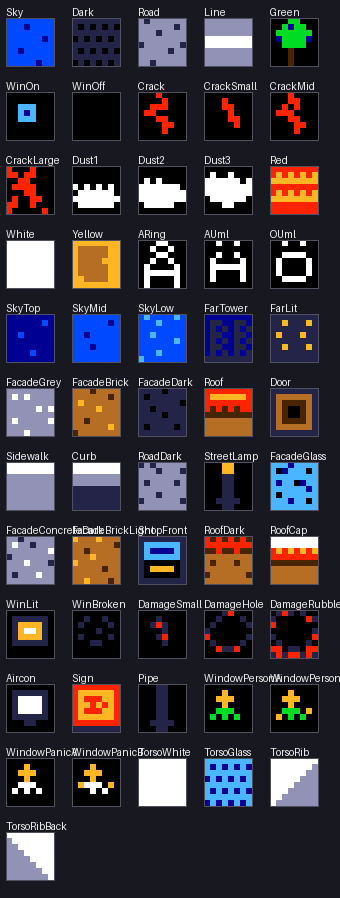
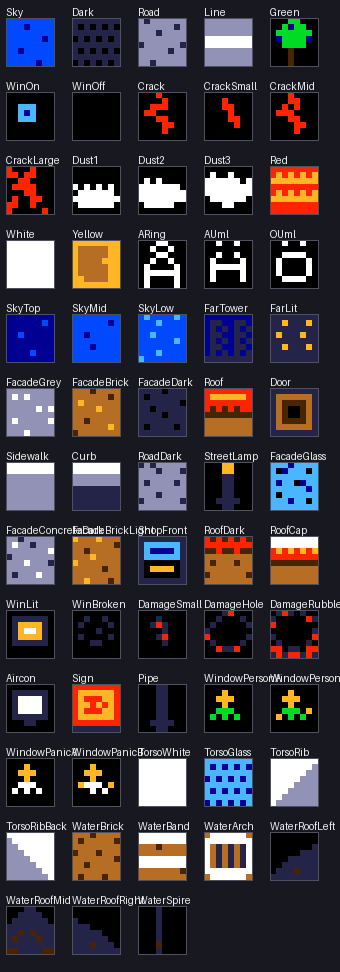
Add Linkoping water tower

diff --git a/src/main.c b/src/main.c
@@ -129,6 +129,13 @@
 #define TILE_TORSO_GLASS     (TILE_USER_INDEX + 54)
 #define TILE_TORSO_RIB       (TILE_USER_INDEX + 55)
 #define TILE_TORSO_RIB_BACK  (TILE_USER_INDEX + 56)
+#define TILE_WATER_BRICK     (TILE_USER_INDEX + 57)
+#define TILE_WATER_BAND      (TILE_USER_INDEX + 58)
+#define TILE_WATER_ARCH      (TILE_USER_INDEX + 59)
+#define TILE_WATER_ROOF_LEFT (TILE_USER_INDEX + 60)
+#define TILE_WATER_ROOF_MID  (TILE_USER_INDEX + 61)
+#define TILE_WATER_ROOF_RIGHT (TILE_USER_INDEX + 62)
+#define TILE_WATER_SPIRE     (TILE_USER_INDEX + 63)
 
 typedef enum
 {
@@ -523,6 +530,13 @@ static void loadTiles(void)
     VDP_loadTileData(tileTorsoGlass, TILE_TORSO_GLASS, 1, DMA);
     VDP_loadTileData(tileTorsoRib, TILE_TORSO_RIB, 1, DMA);
     VDP_loadTileData(tileTorsoRibBack, TILE_TORSO_RIB_BACK, 1, DMA);
+    VDP_loadTileData(tileWaterBrick, TILE_WATER_BRICK, 1, DMA);
+    VDP_loadTileData(tileWaterBand, TILE_WATER_BAND, 1, DMA);
+    VDP_loadTileData(tileWaterArch, TILE_WATER_ARCH, 1, DMA);
+    VDP_loadTileData(tileWaterRoofLeft, TILE_WATER_ROOF_LEFT, 1, DMA);
+    VDP_loadTileData(tileWaterRoofMid, TILE_WATER_ROOF_MID, 1, DMA);
+    VDP_loadTileData(tileWaterRoofRight, TILE_WATER_ROOF_RIGHT, 1, DMA);
+    VDP_loadTileData(tileWaterSpire, TILE_WATER_SPIRE, 1, DMA);
 }
 
 static void playTone(u16 tone, u8 length)
@@ -671,8 +685,12 @@ static void initBuildings(void)
         {
             buildings[i].h = 16;
         }
+        if (currentCity == 1 && i == 1)
+        {
+            buildings[i].h = 17;
+        }
         buildings[i].y = FLOOR_Y - hs[i];
-        if (currentCity == 0 && i == 1)
+        if ((currentCity == 0 || currentCity == 1) && i == 1)
         {
             buildings[i].y = FLOOR_Y - buildings[i].h;
         }
@@ -685,7 +703,7 @@ static void initBuildings(void)
         for (u8 p = 0; p < MAX_WINDOW_PEOPLE; p++)
         {
             const u8 col = 1 + ((p & 1) * 2);
-            const u8 row = 1 + ((p / 2) * 2);
+            const u8 row = (currentCity == 1 && i == 1) ? 7 + ((p / 2) * 3) : 1 + ((p / 2) * 2);
             buildings[i].personX[p] = buildings[i].x + (col < buildings[i].w ? col : 1);
             buildings[i].personY[p] = buildings[i].y + (row < buildings[i].h ? row : 1);
             buildings[i].personAlive[p] = (buildings[i].personY[p] < FLOOR_Y - 1);
@@ -823,6 +841,17 @@ static bool isTurningTorsoBuilding(const Building *b)
     return currentCity == 0 && b == &buildings[1];
 }
 
+static bool isOldWaterTowerBuilding(const Building *b)
+{
+    return currentCity == 1 && b == &buildings[1];
+}
+
+static s16 climbTopYForBuilding(const Building *b)
+{
+    const u8 topRow = isOldWaterTowerBuilding(b) ? b->y + 3 : b->y;
+    return (topRow * 8) - PLAYER_H;
+}
+
 static void drawTurningTorsoBuilding(const Building *b, u8 visibleH, u8 drawY)
 {
     const s8 offsets[8] = {1, 1, 0, -1, -1, 0, 1, 1};
@@ -857,6 +886,66 @@ static void drawTurningTorsoBuilding(const Building *b, u8 visibleH, u8 drawY)
     }
 }
 
+static void drawOldWaterTowerBuilding(const Building *b, u8 visibleH, u8 drawY)
+{
+    for (u8 yy = 0; yy < visibleH; yy++)
+    {
+        const u8 worldY = drawY + yy;
+        const u8 rel = worldY - b->y;
+
+        if (rel == 0)
+        {
+            if (!b->collapsing && worldY > HUD_TILES_H)
+            {
+                VDP_setTileMapXY(BG_B, attr(PAL0, TILE_WATER_SPIRE), b->x + 2, worldY - 1);
+            }
+            VDP_setTileMapXY(BG_B, attr(PAL0, TILE_WATER_ROOF_MID), b->x + 2, worldY);
+            continue;
+        }
+        if (rel == 1)
+        {
+            VDP_setTileMapXY(BG_B, attr(PAL0, TILE_WATER_ROOF_LEFT), b->x + 1, worldY);
+            VDP_setTileMapXY(BG_B, attr(PAL0, TILE_WATER_ROOF_MID), b->x + 2, worldY);
+            VDP_setTileMapXY(BG_B, attr(PAL0, TILE_WATER_ROOF_RIGHT), b->x + 3, worldY);
+            continue;
+        }
+        if (rel == 2)
+        {
+            VDP_setTileMapXY(BG_B, attr(PAL0, TILE_WATER_ROOF_LEFT), b->x, worldY);
+            VDP_setTileMapXY(BG_B, attr(PAL0, TILE_WATER_ROOF_MID), b->x + 1, worldY);
+            VDP_setTileMapXY(BG_B, attr(PAL0, TILE_WATER_ROOF_MID), b->x + 2, worldY);
+            VDP_setTileMapXY(BG_B, attr(PAL0, TILE_WATER_ROOF_MID), b->x + 3, worldY);
+            VDP_setTileMapXY(BG_B, attr(PAL0, TILE_WATER_ROOF_RIGHT), b->x + 4, worldY);
+            continue;
+        }
+
+        VDP_fillTileMapRect(BG_B, attr(PAL0, TILE_WATER_BRICK), b->x, worldY, b->w, 1);
+
+        if (rel == 3 || rel == 6 || rel == 9 || rel == 15)
+        {
+            VDP_fillTileMapRect(BG_B, attr(PAL0, TILE_WATER_BAND), b->x, worldY, b->w, 1);
+            continue;
+        }
+
+        if (rel == 4 || rel == 5)
+        {
+            VDP_setTileMapXY(BG_B, attr(PAL0, TILE_WATER_ARCH), b->x + 1, worldY);
+            VDP_setTileMapXY(BG_B, attr(PAL0, TILE_WATER_ARCH), b->x + 2, worldY);
+            VDP_setTileMapXY(BG_B, attr(PAL0, TILE_WATER_ARCH), b->x + 3, worldY);
+            continue;
+        }
+
+        if (rel == visibleH - 1)
+        {
+            VDP_setTileMapXY(BG_B, attr(PAL0, TILE_DOOR), b->x + 2, worldY);
+        }
+        else if (rel > 7 && (rel & 1))
+        {
+            VDP_setTileMapXY(BG_B, attr(PAL0, TILE_WIN_OFF), b->x + 2, worldY);
+        }
+    }
+}
+
 static void drawBuilding(const Building *b)
 {
     if (!b->alive && !b->collapsing) return;
@@ -876,6 +965,22 @@ static void drawBuilding(const Building *b)
     if (isTurningTorsoBuilding(b))
     {
         drawTurningTorsoBuilding(b, visibleH, drawY);
+        drawBuildingChunks(b, visibleH, drawY);
+        if (b->cracking) drawBuildingCracks(b, visibleH);
+        if (b->collapsing) drawCollapseDust(b, FLOOR_Y - 1, b->collapseRows);
+
+        for (u8 p = 0; p < MAX_WINDOW_PEOPLE; p++)
+        {
+            if (!b->personAlive[p]) continue;
+            if (b->personY[p] < drawY || b->personY[p] >= drawY + visibleH) continue;
+            VDP_setTileMapXY(BG_B, attr(PAL0, windowPersonTile(b, p)), b->personX[p], b->personY[p]);
+        }
+        return;
+    }
+
+    if (isOldWaterTowerBuilding(b))
+    {
+        drawOldWaterTowerBuilding(b, visibleH, drawY);
         drawBuildingChunks(b, visibleH, drawY);
         if (b->cracking) drawBuildingCracks(b, visibleH);
         if (b->collapsing) drawCollapseDust(b, FLOOR_Y - 1, b->collapseRows);
@@ -1976,6 +2081,7 @@ static RoofContact getRoofContact(void)
         const s16 bTop = b->y * 8;
         if (!b->alive) continue;
         if (b->collapsing) continue;
+        if (isOldWaterTowerBuilding(b)) continue;
         if (center < bLeft + 4 || center > bRight - 4) continue;
         if (feet < bTop - 6 || feet > bTop + 8) continue;
 
@@ -2098,21 +2204,31 @@ static void updatePlayer(u16 joy, u16 pressed)
     if (climbing && player.y > 40)
     {
         const Building *b = &buildings[climbContact.building];
-        const s16 roofY = (b->y * 8) - PLAYER_H;
+        const s16 climbTopY = climbTopYForBuilding(b);
 
         player.y -= 2;
         player.climbPose = POSE_CLIMB_UP;
-        if (player.y <= roofY)
+        if (player.y <= climbTopY)
         {
             const s16 bLeft = b->x * 8;
             const s16 bRight = (b->x + b->w) * 8;
-            player.y = roofY;
-            player.x = climbContact.attackDir > 0 ? bLeft - 20 : bRight - 28;
+            player.y = climbTopY;
             player.vy = 0;
-            player.grounded = TRUE;
-            onFacade = FALSE;
             climbing = FALSE;
-            onRoof = TRUE;
+            if (isOldWaterTowerBuilding(b))
+            {
+                player.x = climbContact.snapX;
+                player.grounded = FALSE;
+                onFacade = TRUE;
+                onRoof = FALSE;
+            }
+            else
+            {
+                player.x = climbContact.attackDir > 0 ? bLeft - 20 : bRight - 28;
+                player.grounded = TRUE;
+                onFacade = FALSE;
+                onRoof = TRUE;
+            }
         }
     }
     else if ((joy & BUTTON_DOWN) && onFacade && player.y < PLAYER_GROUND_Y)

diff --git a/src/stage_tiles.h b/src/stage_tiles.h
@@ -77,5 +77,12 @@ static const u32 tileTorsoWhite[8] = {0x99999999,0x9F999F99,0x9999999F,0x999F999
 static const u32 tileTorsoGlass[8] = {0x66666666,0x6C6C6C6C,0x66666666,0xC6C6C6C6,0x66666666,0x6C6C6C6C,0x66666666,0xC6C6C6C6};
 static const u32 tileTorsoRib[8] = {0x9999999F,0x999999F3,0x99999F33,0x9999F333,0x999F3333,0x99F33333,0x9F333333,0xF3333333};
 static const u32 tileTorsoRibBack[8] = {0xF9999999,0x3F999999,0x33F99999,0x333F9999,0x3333F999,0x33333F99,0x333333F9,0x3333333F};
+static const u32 tileWaterBrick[8] = {0x777A7777,0x7A77777A,0x77777777,0xA777A777,0x7777777A,0x77A77777,0x77777777,0x7A777A77};
+static const u32 tileWaterBand[8] = {0xFFFFFFFF,0x99999999,0x777A7777,0x77777777,0xFFFFFFFF,0x99999999,0x7777777A,0x77777777};
+static const u32 tileWaterArch[8] = {0x7FFFFFF7,0xF999999F,0xF7B7B7BF,0xF7B7B7BF,0xF7B7B7BF,0xF7B7B7BF,0xF999999F,0x7FFFFFF7};
+static const u32 tileWaterRoofLeft[8] = {0x00000000,0x00000000,0x0000000B,0x00000BBB,0x000BBBBB,0x00BBBBBB,0x0BBBABBB,0xBBBBBBBB};
+static const u32 tileWaterRoofMid[8] = {0x000BB000,0x00BBBB00,0x0BBBBBB0,0xBBBBBBBB,0xBBABABBB,0xBABBBABB,0xBBBBBBBB,0xAABBBBAA};
+static const u32 tileWaterRoofRight[8] = {0x00000000,0x00000000,0xB0000000,0xBBB00000,0xBBBBB000,0xBBBBBB00,0xBBBABBB0,0xBBBBBBBB};
+static const u32 tileWaterSpire[8] = {0x000B0000,0x000B0000,0x000B0000,0x000B0000,0x000B0000,0x000B0000,0x000A0000,0x000B0000};
 
 #endif